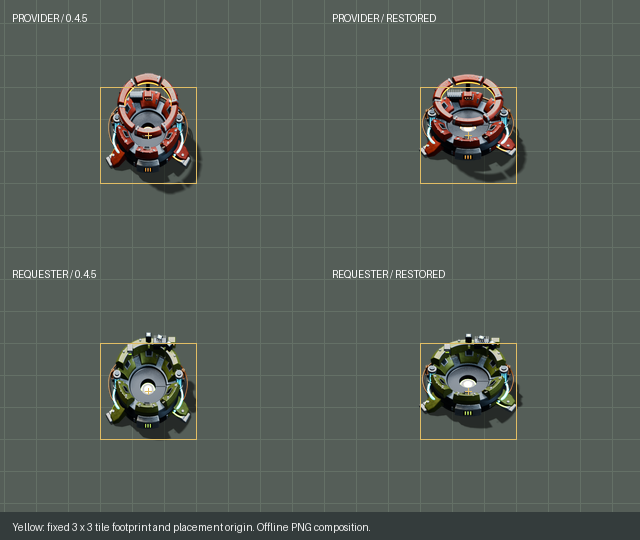
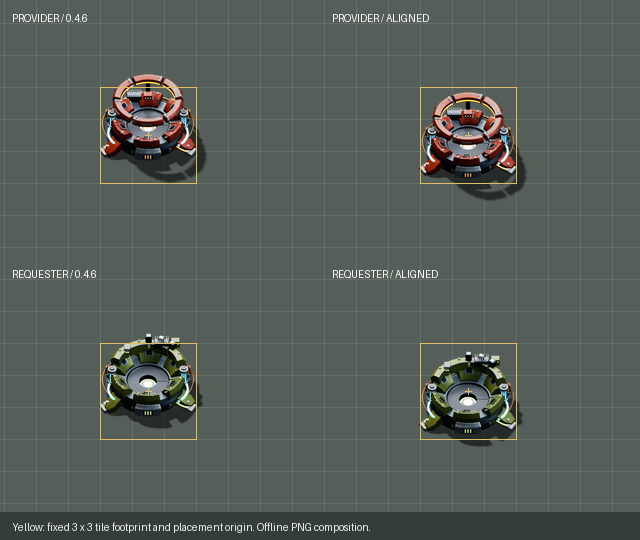
fix(graphics): shift machine layers south into selection box

diff --git a/graphics/source/rounded-transfer-v1/pack_sprites.py b/graphics/source/rounded-transfer-v1/pack_sprites.py
@@ -72,7 +72,7 @@ for role in ['provider','requester']:
     reports[role]={'frames':128,'unique_idle_frames':len({im.tobytes() for im in emission[:64]}),'unique_active_frames':len({im.tobytes() for im in emission[64:]}),'min_margin_px':min(min(a,b,192-c,256-d) for a,b,c,d in boxes),'body_bounds_union':[min(b[0] for b in boxes),min(b[1] for b in boxes),max(b[2] for b in boxes),max(b[3] for b in boxes)],'shadow_bbox':shadow.getbbox()}
 
 write_previews()
-manifest={'blender_version':'5.2.3 LTS','source':'rounded-transfer-v1.blend','source_sha256':hashlib.sha256((ROOT/'rounded-transfer-v1.blend').read_bytes()).hexdigest(),'cell':[192,256],'grid':[8,8],'frames_per_state':64,'idle_animation_speed':.5,'active_animation_speed':1,'pixels_per_tile':51.2,'anchor':[96,128],'factorio_scale':.625,'factorio_shift':[0,0],'shadow_size':[384,256],'shadow_method':'Cycles shadow catcher with matching body sun, ground datum and pixel density','export_notes':'Blender-authored body with direct emission subtracted in linear space; separate additive emission; supersampled 2x and downsampled with alpha-aware Lanczos. Animation preview GIF is slowed for inspection. Not a captured in-game screenshot.','validation':reports,'files':{p.name:hashlib.sha256(p.read_bytes()).hexdigest() for p in sorted(DEST.glob('*.png'))}}
+manifest={'blender_version':'5.2.3 LTS','source':'rounded-transfer-v1.blend','source_sha256':hashlib.sha256((ROOT/'rounded-transfer-v1.blend').read_bytes()).hexdigest(),'cell':[192,256],'grid':[8,8],'frames_per_state':64,'idle_animation_speed':.5,'active_animation_speed':1,'pixels_per_tile':51.2,'anchor':[96,128],'factorio_scale':.625,'factorio_shift':[0,.5625],'shadow_size':[384,256],'shadow_method':'Cycles shadow catcher with matching body sun, ground datum and pixel density','export_notes':'Blender-authored body with direct emission subtracted in linear space; separate additive emission; supersampled 2x and downsampled with alpha-aware Lanczos. Animation preview GIF is slowed for inspection. Not a captured in-game screenshot.','validation':reports,'files':{p.name:hashlib.sha256(p.read_bytes()).hexdigest() for p in sorted(DEST.glob('*.png'))}}
 manifest.update({
     'projection_check':'projection-check.json',
     'placement_footprint_tiles':[3,3],

diff --git a/tests/sprite_placement.py b/tests/sprite_placement.py
@@ -1,0 +1,31 @@
+"""Check actual exported machine pixels against the fixed placement rectangle."""
+from pathlib import Path
+import sys
+import unittest
+from PIL import Image
+
+ROOT=Path(__file__).resolve().parents[1]
+sys.path.insert(0,str(ROOT/'graphics/source/rounded-transfer-v1'))
+from preview_sprites import footprint,sprite_params
+
+class SpritePlacement(unittest.TestCase):
+    def test_visible_machine_is_vertically_inside_rectangle(self):
+        text=(ROOT/'data.lua').read_text()
+        for role in ['provider','requester']:
+            for state in ['idle','active']:
+                with self.subTest(role=role,state=state):
+                    name=f'{role}_animation_sheet_{state}.png'
+                    scale,shift=sprite_params(name,text)
+                    alpha=Image.open(ROOT/'graphics/entities/rounded-v1'/name).getchannel('A')
+                    boxes=[]
+                    for frame in range(64):
+                        x,y=frame%8*192,frame//8*256
+                        boxes.append(alpha.crop((x,y,x+192,y+256)).point(lambda a:255 if a>=16 else 0).getbbox())
+                    top=(min(b[1] for b in boxes)-128)*scale+shift[1]
+                    bottom=(max(b[3] for b in boxes)-128)*scale+shift[1]
+                    _,north,_,south=footprint(role,text)
+                    self.assertGreaterEqual(top,north,f'{role} {state}: artwork is {north-top:.2f}px north of the rectangle')
+                    self.assertLessEqual(bottom,south,f'{role} {state}: artwork extends south of the rectangle')
+                    self.assertLessEqual(abs((top+bottom)/2),3,'Visible machine must be vertically centered within 3px')
+
+if __name__=='__main__':unittest.main()

diff --git a/tests/graphics_projection.py b/tests/graphics_projection.py
@@ -38,12 +38,15 @@ def check_projections():
     # Factorio's square grid has physical Y spacing sqrt(2) at a 45-degree camera.
     # https://factorio.com/blog/post/fff-133
     points={'origin':(0,0,0),'east_tile':(1,0,0),'south_tile':(0,-math.sqrt(2),0)}
-    expected={'origin':Vector((0,0)),'east_tile':Vector((32,0)),'south_tile':Vector((0,32))}
     for role,label in [('provider','PROVIDER TX'),('requester','REQUESTER RX')]:
         body=bpy.data.scenes['ILN - '+role.title()]
         shadow=bpy.data.scenes['ILN - '+role.title()+' Shadow']
         body_spec=sprite_parameters(role+'_animation_sheet_idle.png')
         shadow_spec=sprite_parameters(role+'_shadow.png')
+        origin=Vector((body_spec[3][0]*32,body_spec[3][1]*32))
+        expected={'origin':origin,'east_tile':origin+Vector((32,0)),'south_tile':origin+Vector((0,32))}
+        if shadow_spec[3]!=body_spec[3]:
+            failures.append(role+' body and shadow placement shifts differ')
         for tail in ['animation_sheet_active.png','emission_sheet_idle.png','emission_sheet_active.png']:
             if sprite_parameters(role+'_'+tail)!=body_spec:
                 failures.append(role+' '+tail+' does not align with the idle body')

diff --git a/graphics/source/rounded-transfer-v1/preview_grounding.py b/graphics/source/rounded-transfer-v1/preview_grounding.py
@@ -1,4 +1,4 @@
-"""Compare shipped 0.4.5 and current PNG placement without starting Factorio.
+"""Compare shipped 0.4.6 and current PNG placement without starting Factorio.
 
 Run with uv run --with pillow python preview_grounding.py.
 Uses actual sprite scale/shift from each revision's data.lua, not Blender's
@@ -14,7 +14,7 @@ ROOT=Path(__file__).resolve().parents[3]
 OUT=Path(__file__).resolve().parent
 
 def read(path,before):
-    if before:return subprocess.check_output(['git','show','v0.4.5:'+path],cwd=ROOT)
+    if before:return subprocess.check_output(['git','show','v0.4.6:'+path],cwd=ROOT)
     return (ROOT/path).read_bytes()
 
 def image(path,before):
@@ -42,7 +42,7 @@ def composite(role,before):
         offset=(round(cx-size[0]/2+shift[0]),round(cy-size[1]/2+shift[1]))
         tile.alpha_composite(layer,offset)
     draw_footprint(ImageDraw.Draw(tile),role,read('data.lua',before).decode(),(cx,cy))
-    ImageDraw.Draw(tile).text((12,12),role.upper()+(' / 0.4.5' if before else ' / RESTORED'),fill='white')
+    ImageDraw.Draw(tile).text((12,12),role.upper()+(' / 0.4.6' if before else ' / ALIGNED'),fill='white')
     return tile.convert('RGB')
 
 if __name__=='__main__':

diff --git a/graphics/source/rounded-transfer-v1/export_sprites.py b/graphics/source/rounded-transfer-v1/export_sprites.py
@@ -39,7 +39,7 @@ for role in ['provider','requester']:
         contact.extend((evaluated.matrix_world@v.co).z for v in mesh.vertices)
         evaluated.to_mesh_clear()
     datum.location.z-=min(contact)
-    # The image center is the ground datum; prototypes use zero shift.
+    # Keep the render's ground datum; placement is a shared prototype shift.
     s.camera.location=(0,-6,6)
     s.camera.rotation_euler=(Vector((0,0,0))-s.camera.location).to_track_quat('-Z','Y').to_euler()
     s.camera.data.ortho_scale=5
@@ -100,7 +100,7 @@ for role in ['provider','requester']:
     links.new(layer.outputs['Image'],out.inputs['Image'])
     s['pixels_per_tile']=51.2
     s['anchor_native_px']=[96,128]
-    s['factorio_shift']=[0,0]
+    s['factorio_shift']=[0,.5625]
     s.frame_set(1)
 
 bpy.ops.wm.save_as_mainfile(filepath=str(ROOT/'rounded-transfer-v1.blend'))
